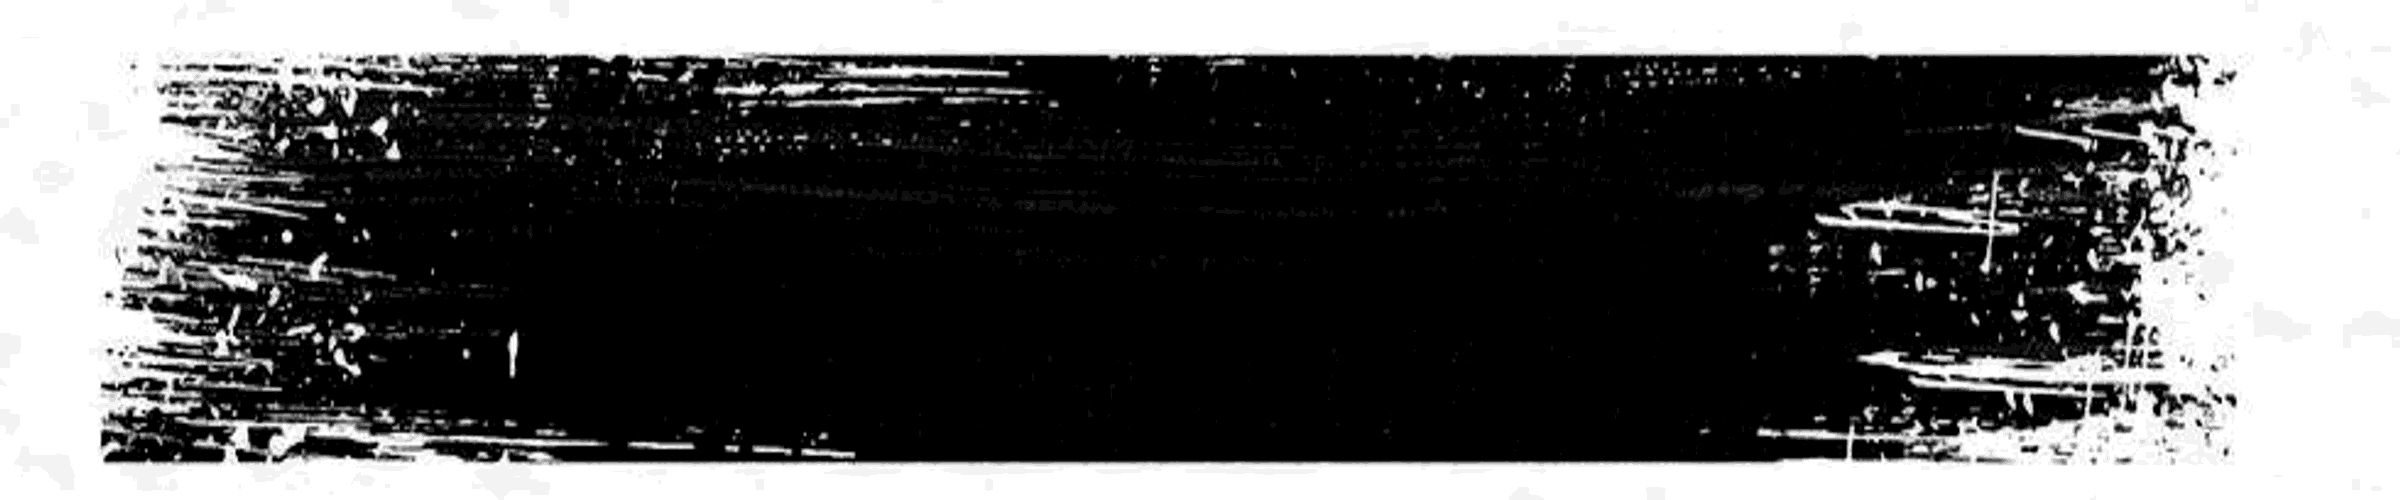
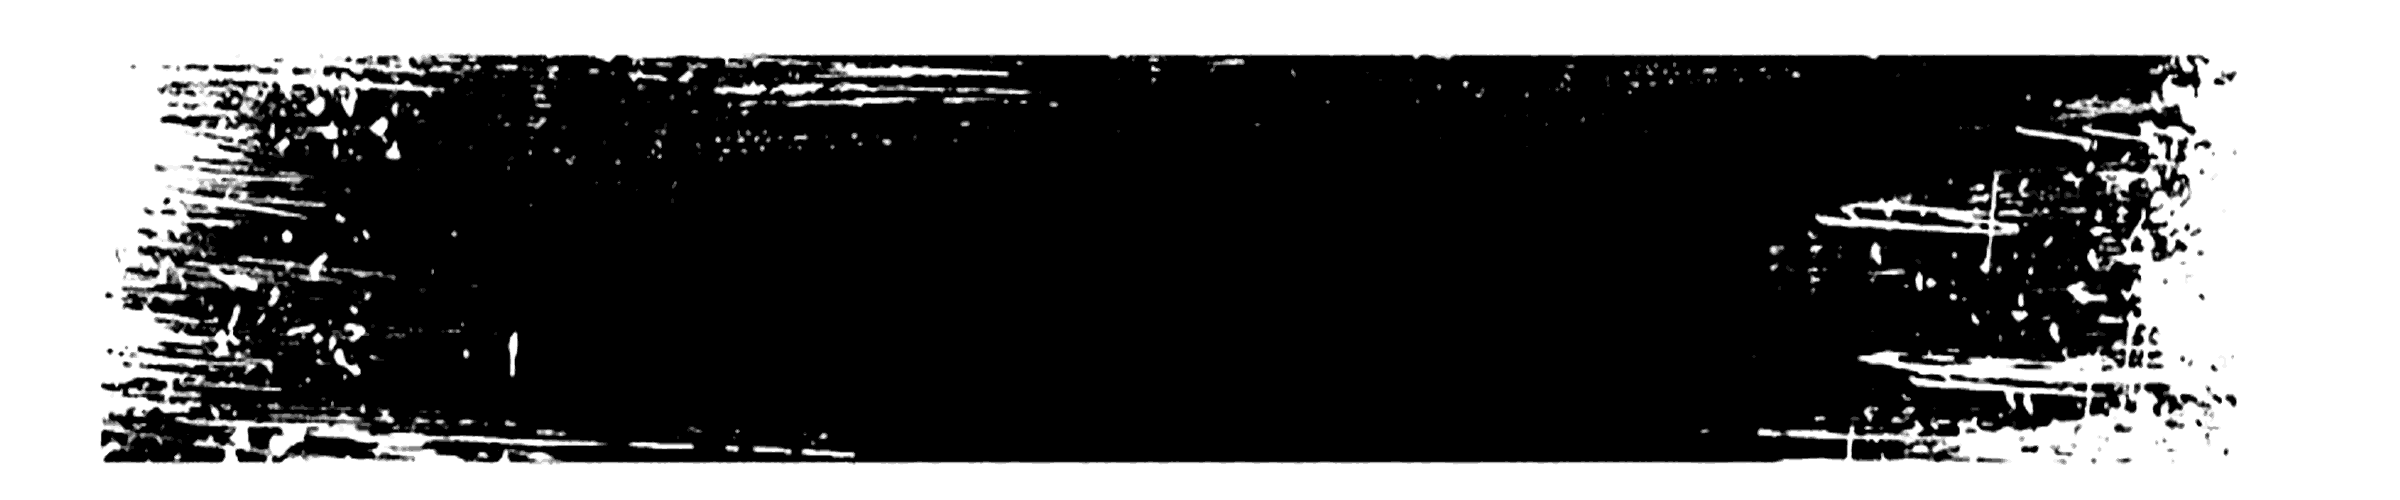
Polish the site paint swatches

diff --git a/apps/seams-site/src/components/h2/sections.tsx b/apps/seams-site/src/components/h2/sections.tsx
@@ -18,7 +18,7 @@ import SeamsWordmark from '@/components/icons/SeamsWordmark';
 import { ArrowRightAnim } from '@/components/ArrowRightAnim';
 import { GrainField, type GrainFieldName } from '@seams-internal/grain-field';
 import { InkDrawing } from '@/components/h2/ink/InkScene';
-import { BrushSwatch, type SwatchColour, type SwatchPaint } from '@/components/h2/ink/BrushSwatch';
+import { BrushSwatch, type SwatchColour, type SwatchLayers } from '@/components/h2/ink/BrushSwatch';
 import { tileSignScenes, type TileSign } from '@/components/h2/ink/tileSignScenes';
 import { PortalShot, type PortalShotName } from '@/components/h2/SceneHero';
 import { WalletFigure, type WalletFigureName } from '@/components/h2/WalletFigure';
@@ -354,7 +354,7 @@ function BannerSection({
   field,
   drawing,
   swatch,
-  paint,
+  layers,
   mirrored,
   title,
   sub,
@@ -369,7 +369,7 @@ function BannerSection({
   drawing?: React.ReactNode;
   /* the brush stroke of paint under the drawing */
   swatch: SwatchColour;
-  paint: SwatchPaint;
+  layers: SwatchLayers;
   mirrored: boolean;
   title: string;
   sub?: string;
@@ -391,7 +391,7 @@ function BannerSection({
     <section id={anchor} className="h2-section h2-section--banner h2-rule" aria-labelledby={id}>
       {drawing ? (
         <div className="h2-banner h2-banner--ink">
-          <BrushSwatch colour={swatch} paint={paint} mirrored={mirrored} />
+          <BrushSwatch colour={swatch} layers={layers} mirrored={mirrored} />
           {drawing}
           {content}
         </div>
@@ -419,7 +419,10 @@ export function H2Ecosystem({
       <BannerSection
         id="h2-eco-title"
         swatch="seaglass"
-        paint={{ finish: 'wet', stroke: 1 }}
+        layers={{
+          kind: 'single',
+          foreground: { paint: { finish: 'wet', stroke: 1 }, angle: -1, offset: 0 },
+        }}
         mirrored={false}
         anchor="integrations"
         field="teal-peach"
@@ -636,7 +639,10 @@ export function H2Pillars({
       <BannerSection
         id="h2-pillars-title"
         swatch="blush"
-        paint={{ finish: 'dry', stroke: 2 }}
+        layers={{
+          kind: 'single',
+          foreground: { paint: { finish: 'dry', stroke: 2 }, angle: 1, offset: 0 },
+        }}
         mirrored={true}
         anchor="suite"
         field="azure-coral"
@@ -743,7 +749,11 @@ export function H2Bento({ drawing }: { drawing?: React.ReactNode } = {}): React.
       <BannerSection
         id="h2-bento-title"
         swatch="clay"
-        paint={{ finish: 'dry', stroke: 5 }}
+        layers={{
+          kind: 'double',
+          background: { paint: { finish: 'wet', stroke: 1 }, angle: -2, offset: 0 },
+          foreground: { paint: { finish: 'dry', stroke: 5 }, angle: 1, offset: 0 },
+        }}
         mirrored={false}
         anchor="control"
         field="mauve-ember"
@@ -933,7 +943,10 @@ export function H2Cases({ drawing }: { drawing?: React.ReactNode } = {}): React.
       <BannerSection
         id="h2-cases-title"
         swatch="sky"
-        paint={{ finish: 'dry', stroke: 3 }}
+        layers={{
+          kind: 'single',
+          foreground: { paint: { finish: 'dry', stroke: 3 }, angle: -1, offset: 0 },
+        }}
         mirrored={false}
         anchor="workflows"
         field="mauve-ember"
@@ -983,7 +996,10 @@ export function H2Production({ drawing }: { drawing?: React.ReactNode } = {}): R
       <BannerSection
         id="h2-production-title"
         swatch="gold"
-        paint={{ finish: 'wet', stroke: 3 }}
+        layers={{
+          kind: 'single',
+          foreground: { paint: { finish: 'wet', stroke: 3 }, angle: 1, offset: 0 },
+        }}
         mirrored={true}
         anchor="kitchen"
         field="apricot-beam"
@@ -1013,7 +1029,10 @@ export function H2WalletBand({ drawing }: { drawing?: React.ReactNode } = {}): R
     <BannerSection
       id="h2-wallet-title"
       swatch="lavender"
-      paint={{ finish: 'wet', stroke: 2 }}
+      layers={{
+        kind: 'single',
+        foreground: { paint: { finish: 'wet', stroke: 2 }, angle: -1, offset: 0 },
+      }}
       mirrored={true}
       field="teal-peach"
       drawing={drawing}
@@ -2102,7 +2121,11 @@ export function H2Cta({
     <BannerSection
       id="h2-cta-title"
       swatch="peach"
-      paint={{ finish: 'dry', stroke: 4 }}
+      layers={{
+        kind: 'double',
+        background: { paint: { finish: 'wet', stroke: 3 }, angle: 2, offset: 0 },
+        foreground: { paint: { finish: 'dry', stroke: 4 }, angle: -1, offset: 0 },
+      }}
       mirrored={false}
       field={copy.field}
       drawing={drawing}

diff --git a/apps/seams-site/src/components/h2/ink/BrushSwatch.tsx b/apps/seams-site/src/components/h2/ink/BrushSwatch.tsx
@@ -13,10 +13,22 @@ export const SWATCH_COLOURS = {
 export type SwatchColour = keyof typeof SWATCH_COLOURS;
 type DryStroke = 1 | 2 | 3 | 4 | 5;
 type WetStroke = 1 | 2 | 3;
+type SwatchAngle = -2 | -1 | 0 | 1 | 2;
+type SwatchOffset = -12 | 0 | 12;
 
 export type SwatchPaint =
   | { finish: 'dry'; stroke: DryStroke }
   | { finish: 'wet'; stroke: WetStroke };
+
+export type SwatchLayer = {
+  paint: SwatchPaint;
+  angle: SwatchAngle;
+  offset: SwatchOffset;
+};
+
+export type SwatchLayers =
+  | { kind: 'single'; foreground: SwatchLayer; background?: never }
+  | { kind: 'double'; foreground: SwatchLayer; background: SwatchLayer };
 
 const DRY_STROKE_MASKS: Readonly<Record<DryStroke, string>> = {
   1: 'url("/brush/stroke-1.webp")',
@@ -34,8 +46,15 @@ const WET_STROKE_MASKS: Readonly<Record<WetStroke, string>> = {
 
 type BrushSwatchProps = {
   colour: SwatchColour;
-  paint: SwatchPaint;
+  layers: SwatchLayers;
   mirrored: boolean;
+};
+
+type SwatchPaintLayerProps = {
+  colour: SwatchColour;
+  layer: SwatchLayer;
+  mirrored: boolean;
+  background: boolean;
 };
 
 function assertNever(value: never): never {
@@ -53,23 +72,50 @@ function maskImageForPaint(paint: SwatchPaint): string {
   }
 }
 
-function swatchPaintStyle(colour: SwatchColour, paint: SwatchPaint): React.CSSProperties {
-  const maskImage = maskImageForPaint(paint);
+function swatchPaintStyle(
+  colour: SwatchColour,
+  layer: SwatchLayer,
+  mirrored: boolean,
+): React.CSSProperties {
+  const maskImage = maskImageForPaint(layer.paint);
+  const mirror = mirrored ? 'scaleX(-1)' : 'scaleX(1)';
   return {
     backgroundColor: SWATCH_COLOURS[colour],
     maskImage,
+    transform: `translateY(${layer.offset}px) rotate(${layer.angle}deg) ${mirror}`,
     WebkitMaskImage: maskImage,
   };
 }
 
+function SwatchPaintLayer({
+  colour,
+  layer,
+  mirrored,
+  background,
+}: SwatchPaintLayerProps): React.JSX.Element {
+  const className = background ? 'h2-swatch__paint h2-swatch__paint--back' : 'h2-swatch__paint';
+
+  return <div className={className} style={swatchPaintStyle(colour, layer, mirrored)} />;
+}
+
 /* A static painter's swatch. The image supplies the real bristle edge and
    partial paint coverage. CSS supplies the banner-specific pastel colour. */
-export function BrushSwatch({ colour, paint, mirrored }: BrushSwatchProps): React.JSX.Element {
-  const className = mirrored ? 'h2-swatch__paint h2-swatch__paint--mirrored' : 'h2-swatch__paint';
+export function BrushSwatch({ colour, layers, mirrored }: BrushSwatchProps): React.JSX.Element {
+  const className = layers.kind === 'double' ? 'h2-swatch h2-swatch--double' : 'h2-swatch';
+  const background =
+    layers.kind === 'double' ? (
+      <SwatchPaintLayer colour={colour} layer={layers.background} mirrored={mirrored} background />
+    ) : null;
 
   return (
-    <div className="h2-swatch" aria-hidden>
-      <div className={className} style={swatchPaintStyle(colour, paint)} />
+    <div className={className} aria-hidden>
+      {background}
+      <SwatchPaintLayer
+        colour={colour}
+        layer={layers.foreground}
+        mirrored={mirrored}
+        background={false}
+      />
     </div>
   );
 }

diff --git a/apps/seams-site/src/pages/company/page.tsx b/apps/seams-site/src/pages/company/page.tsx
@@ -220,7 +220,14 @@ export function CompanyPage(): React.JSX.Element {
 
           <section className="h2-cta h2-cta--banner h2-rule" aria-labelledby="company-banner-title">
             <div className="h2-shell h2-cta__banner company-banner company-banner--ink">
-              <BrushSwatch colour="seaglass" paint={{ finish: 'wet', stroke: 1 }} mirrored={true} />
+              <BrushSwatch
+                colour="seaglass"
+                layers={{
+                  kind: 'single',
+                  foreground: { paint: { finish: 'wet', stroke: 1 }, angle: 1, offset: 0 },
+                }}
+                mirrored={true}
+              />
               <InkDrawing scene={cupSparrowScene} className="h2-ink--banner" />
               <div>
                 <h2 id="company-banner-title" className="h2-display h2-cta__title">

diff --git a/apps/seams-site/src/styles/h2-ink.css b/apps/seams-site/src/styles/h2-ink.css
@@ -253,10 +253,22 @@
   -webkit-mask-position: center;
   -webkit-mask-repeat: no-repeat;
   -webkit-mask-size: 100% 100%;
+  transform-origin: center;
 }
 
-.h2-swatch__paint--mirrored {
-  transform: scaleX(-1);
+.h2-swatch__paint--back {
+  opacity: 0.82;
+}
+
+.h2-swatch--double .h2-swatch__paint {
+  top: 10px;
+  bottom: auto;
+  height: calc(44% - 10px);
+}
+
+.h2-swatch--double .h2-swatch__paint--back {
+  top: auto;
+  bottom: 10px;
 }
 
 .h2-banner--ink > :not(.h2-ink, .h2-swatch) {
@@ -335,6 +347,17 @@
     left: -24px;
     width: auto;
     height: min(38vw, 150px);
+  }
+
+  .h2-swatch--double .h2-swatch__paint {
+    top: 0;
+    bottom: auto;
+    height: calc(min(38vw, 150px) * 0.44);
+  }
+
+  .h2-swatch--double .h2-swatch__paint--back {
+    top: auto;
+    bottom: 0;
   }
 
   .h2-banner--ink {
